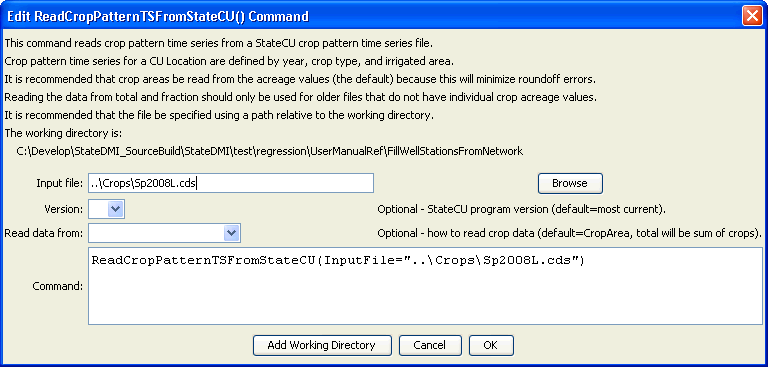
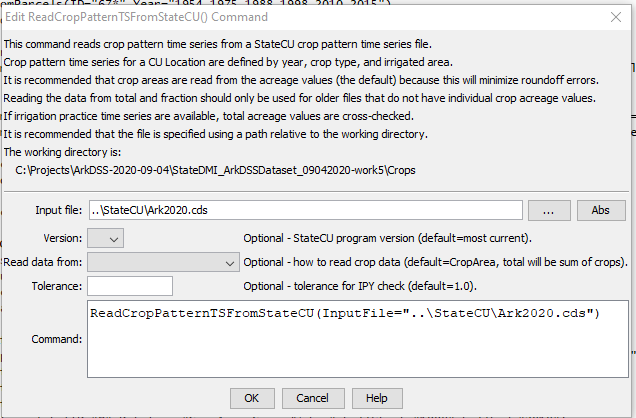
Update the documentation for 5.0.11 release, issue #43

diff --git a/mkdocs-project/docs/command-ref/WriteParcelsToFile/WriteParcelsToFile.md b/mkdocs-project/docs/command-ref/WriteParcelsToFile/WriteParcelsToFile.md
@@ -98,18 +98,21 @@ The data should closely match the original irrigated lands assessment spatial da
 ### Model Parcel Supply Format ###
 
 The following is an example of the `ModelParcelSupply` report format, which is organized from model perspective.
-The CDS information is only complete after running the
-[`ReadCropPatternTSFromParcels`](../ReadCropPatternTSFromParcels/ReadCropPatternTSFromParcels.md) command.
+The CDS and IPY file information is only complete after running the
+[`ReadCropPatternTSFromParcels`](../ReadCropPatternTSFromParcels/ReadCropPatternTSFromParcels.md)
+or
+[`ReadIrrigationPracticeTSFromParcels`](../ReadIrrigationPracticeTSFromParcels/ReadIrrigationPracticeTSFromParcels.md)
+command.
 
 ```
 #HeaderRevision 0
 #
 # File generated by...
-# program:      StateDMI 5.00.07.dev (2021-01-31)
+# program:      StateDMI 5.0.11.dev (2021-04-19)
 # user:         sam
-# date:         Mon Feb 01 01:04:36 America/Denver 2021
+# date:         Tue Jun 01 07:18:36 America/Denver 2021
 # host:         RoaringFork
-# directory:    C:\Projects\ArkDSS-2020-09-04\StateDMI_ArkDSSDataset_09042020-work3\Crops
+# directory:    C:\Projects\ArkDSS-2020-09-04\StateDMI_ArkDSSDataset_09042020-work5\Crops
 # command line: StateDMI
 #  -home test\operational\CDSS
 #------------------------------------------------
@@ -147,39 +150,54 @@ The CDS information is only complete after running the
 #>  Units        :  Area units
 #>  IrrigMeth    :  Irrigation method
 #>
-#>  Data Source/Use - whether or not the row of data is included in the CDS file
+#>  Data Source/Use - whether or not the row of data is included in the CDS and IPY files
 #>  --------------------------------------------------------------------------------------------------
 #>  Include in CDS :  Indicates whether the parcel is included in CDS file acreage for the LocId.
-#>                    This will only be set after running 'ReadCropPatternTSFromParcels' command.
-#>                    CDS:YES = include parcel area in CDS file based on irrigated acreage parcel assignment
+#>                    This is set after running 'ReadCropPatternTSFromParcels' and
+#>                    'ReadIrrigationPracticeTSFromParcels' commands.
+#>                    CDS:YES = include parcel area in CDS and IPY files based on irrigated acreage parcel assignment
 #>                    - YES if a parcel with surface water supply - area for parcel is always included
 #>                    - YES if a parcel with only groundwater supply and model node is a WEL
 #>                    - a parcel can have CDS:YES for surface water supplies or groundwater supplies, but not both
-#>                    CDS:NO = do not include parcel area in CDS file based on irrigated acreage parcel assignment
+#>                    - IMPORTANT: a parcel/supply may show CDS:YES for surface water supply under GW-only model node
+#>                      but this is only shown in verbose report mode - the supply is only included in the D&W node.
+#>                    CDS:NO = do not include parcel area in CDS or IPY files based on irrigated acreage parcel assignment
 #>                    - NO if GW supply but parcel also has surface water supply
 #>                      - if GW only suppply WEL node, a D&W model node will include the area
-#>                    CDS:ERR = error determining whether to include parcel area in CDS FILE (input error)
-#>                    CDS:UNK = unknown whether to include parcel area in CDS FILE (should not happen)
+#>                    CDS:NA = well supply that is NOT included in the dataset
+#>                    - for example for WEL (well only) model node, a supply ID is not in the collection list.
+#>                    - included in count that is used to compute area fraction, but not included in CDS area.
+#>                    - not included in any IPY acreage.
+#>                    CDS:ERR = error determining whether to include parcel area in CDS and IPY files (input error)
+#>                    CDS:UNK = unknown whether to include parcel area in CDS and IPY files (should not happen)
 #>                    - will have this value until crop pattern time series are processed by
-#>                      ReadCropPatternTSFromParcels or SetCropPatternTSFromParcels commands for location
+#>                      ReadCropPatternTSFromParcels/SetCropPatternTSFromParcels (CDS file)
+#>                      ReadIrrigationPracitceTSFromParcels/SetIrrigationPracticeTSFromParcels (IPY file)
+#>                      commands for location
+#>                    - a year may have this value if Read and Set commands do not overlap a year with irrigated lands
 #>  DataSrc        :  Data source for the supply data
 #>                    - typically from HydroBase but may enable user-supplied data
 #>                    - may in the future be read directly from GIS or other files
 #>                    HB-PUTS = HydroBase ParcelUseTS/Structure from vw_CDSS_ParcelUseTSStructureToParcel (diversions)
 #>                    HB-WTP = HydroBase Well/Parcel from vw_CDSS_WellsWellToParcel (wells)
-#>                    SET = data are provided with SetParcelSurfaceWaterSupply() or SetParcelGroundWaterSupply() commands
 #>  CDS LocId      :  The StateCU location (or StateMod) ID where the parcel area is counted for CDS file. 
 #>                    - DIV or D&W identifier if parcel has surface water supply. 
 #>                    - WEL identifier if parcel has groundwater supply only. 
 #>                    - ??? if the parcel has not been associated with a model location via ReadCropPatternTSFromParcels, 
 #>                      such as when SetCropPatternTS*() commands are used to assign data at the end of processing.
+#>                      When processing IPY, the ReadIrrigationPracticeTSFromParcels and SetIrrigationPracticeTS*() commands are used.
 #>  CDS LocId Type :  Type node type for CDS LocId, to confirm data processing. 
 #>                    - should match the model node location type
-#>                    - ??? if the parcel has not been associated with a model location via ReadCropPatternTSFromParcels, 
+#>                    - ??? if the parcel has not been associated with a model location via ReadCropPatternTSFromParcels(), 
 #>                      such as when SetCropPatternTS*() commands are used to assign data at the end of processing.
-#>  LocId has Set  :  Whether LocId has a SetCropPatternTS*() command - will override any parcel data in this file in output. 
-#>                 :  - will override any parcel data in this file in output. 
-#>                 :  - if CDS:UNK, LocId CDS data may be set by one or more StateDMI set commands. 
+#>                      When processing IPY, the ReadIrrigationPracticeTSFromParcels and SetIrrigationPracticeTS*() commands are used.
+#>  LocId has Set/Fill  :  Whether LocId has a SetCropPatternTS*() or FillCropPatternTS*() command
+#>                         - SET:CDS if SetCropPatternTS*() command was used to set CDS acreage. 
+#>                         - SET:IPY if SetIrrigationPracticeTS*() command was used to set IPY acreage. 
+#>                         - FILL:CDS if FillCropPatternTS*() command was used to fill CDS acreage. 
+#>                         - FILL:IPY if FillIrrigationPracticeTS*() command was used to fill IPY acreage. 
+#>                         - set commands will override any parcel data in this file in output. 
+#>                         - if CDS:UNK, LocId CDS data may be set by one or more StateDMI set or fill commands. 
 #>
 #>  SW Collection Data - surface water aggregate/system data
 #>  --------------------------------------------------------------------------------------------------
@@ -224,27 +242,28 @@ The CDS information is only complete after running the
 #>  --------------------------------------------------------------------------------------------------
 #>  #Wells       :  Number of wells that are associated with ParcelId.
 #>  Irrig Frac   :  1/#Wells = fraction of ParcelArea (from above) that is irrigated by the well (0.0 to 1.0).
-#>  D&W Frac     :  Same as D&W Irrig Frac, applied when well supply is supplemental to ditch.
+#>  D&W Frac     :  Sum of 'SW Supply Data' Irrig Frac for supplies where CDS LocId matches the model ID,
+#>               :  applied when well supply is supplemental to ditch.
 #>  Irrig Area   :  ParcelArea * Irrig Frac (* D&W Frac), zero if parcel has surface water supply for D&W node.
 #>
 #>-------- Model Id ---------|------------------------------- Parcel Data -----------------------------||----------- Data Source/Use ------------- ||            Collections use WDID Parts              |          WEL Collection Part ID is the same as GW Supply ID       |
-#>                           |                                                                         || Include                    CDS     LocId || SW     |-------------- SW Supply Data -------------|----------- GW Collection Data ---------|----- GW Supply Data -----|
-#>           Loc  Collection |       Parcel                                    Parcel          Irrig   || in               CDS       LocId   has   || Collect|#     Ditch  Irrig Irrig   Irrig           |   GWPart    GWPart    Well     Well    |#    Irrig D&W     Irrig  |
-#>  LocId    Type Type       |Year   ID        Div Dist        Crop            Area     Units  Method  || CDS?    DataSrc  LocId     Type    Set   || WDID   |Dit   WDID   Frac  FracHB  Area     HBError|    Type     IdType    WDID     Receipt |Well Frac  Frac    Area   |
+#>                           |                                                                         || Include                    CDS    LocId  || SW     |-------------- SW Supply Data -------------|----------- GW Collection Data ---------|----- GW Supply Data -----|
+#>           Loc  Collection |       Parcel                                    Parcel          Irrig   || in               CDS       LocId  has    || Collect|#     Ditch  Irrig Irrig   Irrig           |   GWPart    GWPart    Well     Well    |#    Irrig D&W     Irrig  |
+#>  LocId    Type Type       |Year   ID        Div Dist        Crop            Area     Units  Method  || CDS?    DataSrc  LocId     Type   Fill/Set| WDID   |Dit   WDID   Frac  FracHB  Area     HBError|    Type     IdType    WDID     Receipt |Well Frac  Frac    Area   |
 #>b--------exb--exb---------exb--exb--------exb--exb--exb------------------exb--------exb--exb--------exb------exb------exb----------exb--exb------exb------exb-exb------exb---exb---exb--------exb-----exb----------exb-----exb------exb--------exb--exb---exb---exb-------ex
 #>EndHeader
 #>
-1000504      DIV  Single      1975 21012133      2   10 GRASS_PASTURE            39.303 acre FLOOD                                                  
+1000504      DIV  Single      1975 21012133      2   10 GRASS_PASTURE            39.303 acre FLOOD                                          FILL:CDS
                                                                                                         CDS:YES  HB-PUTS  1000504      DIV                      1 1000504  1.000 1.000     39.303        
-1000504      DIV  Single      1998 21012719      2   10 GRASS_PASTURE            26.166 acre FLOOD                                                  
+1000504      DIV  Single      1998 21012719      2   10 GRASS_PASTURE            26.166 acre FLOOD                                          FILL:CDS
                                                                                                         CDS:YES  HB-PUTS  1000504      DIV                      1 1000504  1.000 1.000     26.166        
-1000504      DIV  Single      2015 21023167      2   10 GRASS_PASTURE            22.138 acre FLOOD                                                  
+1000504      DIV  Single      2015 21023167      2   10 GRASS_PASTURE            22.138 acre FLOOD                                          FILL:CDS
                                                                                                         CDS:YES  HB-PUTS  1000504      DIV                      1 1000504  1.000 1.000     22.138        
-1000567      D&W  Single      1954 21010941      2   10 GRASS_PASTURE            55.117 acre FLOOD                                                  
+1000567      D&W  Single      1954 21010941      2   10 GRASS_PASTURE            55.117 acre FLOOD                                          FILL:CDS
                                                                                                         CDS:YES  HB-PUTS  1000567      D&W                      1 1000567  1.000 1.000     55.117        
                                                                                                         CDS:NO   HB-WTP                                                                                   WellInDitch          1005638  9080344       2 0.500 1.000    27.558
                                                                                                         CDS:NO   HB-WTP                                                                                   WellInDitch          1005639  9080345       2 0.500 1.000    27.558
-1000567      D&W  Single      1954 21010942      2   10 GRASS_PASTURE            20.477 acre FLOOD                                                  
+1000567      D&W  Single      1954 21010942      2   10 GRASS_PASTURE            20.477 acre FLOOD                                          FILL:CDS
                                                                                                         CDS:YES  HB-PUTS  1000567      D&W                      1 1000567  1.000 1.000     20.477        
                                                                                                         CDS:NO   HB-WTP                                                                                   WellInDitch          1005638  9080344       2 0.500 1.000    10.239
                                                                                                         CDS:NO   HB-WTP                                                                                   WellInDitch          1005639  9080345       2 0.500 1.000    10.239

diff --git a/mkdocs-project/docs/command-ref/ReadIrrigationPracticeTSFromParcels/ReadIrrigationPracticeTSFromParcels.md b/mkdocs-project/docs/command-ref/ReadIrrigationPracticeTSFromParcels/ReadIrrigationPracticeTSFromParcels.md
@@ -22,6 +22,10 @@ Values for other years must be estimated using other commands
 [`FillIrrigationPracticeTSRepeat`](../FillIrrigationPracticeTSRepeat/FillIrrigationPracticeTSRepeat.md) commands).
 This command should be executed before other commands that estimate or set irrigation practice acreage time series.
 
+The [`SetIrrigationPracticeTSTotalAcreageToCropPatternTSTotalAcreage`](../SetIrrigationPracticeTSTotalAcreageToCropPatternTSTotalAcreage/SetIrrigationPracticeTSTotalAcreageToCropPatternTSTotalAcreage.md)
+command can be used to set irrigation practice time series total area for the full period
+to ensure that fill commands have a total area for calculations for the full period.
+
 The following figure illustrates possible water supply for parcels.
 
 **<p style="text-align: center;">
@@ -133,10 +137,14 @@ Command Parameters
 
 See the [automated tests](https://github.com/OpenCDSS/cdss-app-statedmi-test/tree/master/test/regression/commands/ReadIrrigationPracticeTSFromParcels).
 
-The following command file illustrates how to process the irrigation practice time series file where groundwater supply is used:
+The following command file illustrates how to process the irrigation practice time series file where groundwater supply is used,
+in this case for Arkansas basin:
 
 ```
-StartLog(LogFile="Ark2020_IPY.STATEDMI.log")
+StartLog(LogFile="Ark2020_IPY_Rev.STATEDMI.log")
+# StateDMI command file to develop an IPY File for ArkDSS
+# Ark2020.ipy
+#@require datastore HydroBase = 20200720
 #
 # Step 1 - Set output period and read CU locations from structure file
 SetOutputPeriod(OutputStart="1950",OutputEnd="2018")
@@ -145,9 +153,11 @@ ReadCULocationsFromStateCU(InputFile="..\StateCU\Ark2020_CROP.str")
 # Step 2 - Read Diversion System, Multi-Systems, and GW aggregates
 SetDiversionSystemFromList(ListFile="2020_08_18_Ark2020_DivSys_Acres.txt",IDCol="1",NameCol="2",PartIDsCol="3",PartsListedHow=InRow,PartIDsColMax="12",IfNotFound=Warn)
 SetDiversionSystemFromList(ListFile="2020_08_18_Ark2020_MultiStr_DDM.txt",IDCol="1",NameCol="2",PartIDsCol="3",PartsListedHow=InRow,PartIDsColMax="7",IfNotFound=Warn)
+SetWellAggregateFromList(ListFile="2020_04_06_Ark2020_GWAgg_StateCU.txt",PartType=Well,IDCol="1",PartIDsCol="2",PartIDTypeColumn="3",PartsListedHow=InColumn,WellReceiptWaterDistrictMap="0457406:1,3648199:65,0429583:2")
 #
 # Step 2.1 - Read parcel data, which is used by the following commands
-ReadParcelsFromHydroBase(ID="*")
+ReadParcelsFromHydroBase(ID="*",ExcludeYears="2013,2014")
+#
 # Check the parcel data for issues
 CheckParcels(ID="*",AreaPrecision=1)
 #
@@ -162,43 +172,40 @@ SetIrrigationPracticeTSFromList(ListFile="Ark2020_IPY_AllSTR_Irrig_Eff.lst",ID="
 SetIrrigationPracticeTSFromList(ListFile="Ark2020_IPY_HIModel_Irrig_Eff.lst",ID="*",YearCol=1,IDCol="2",SprinklerAppEffMaxCol="3")
 SetIrrigationPracticeTSFromList(ListFile="Ark2020_AllSTR_CanalEff.lst",ID="*",IDCol="1",SurfaceDelEffMaxCol="2")
 #
-# Step 6 - Set Irrigation Practice for three HI Model Structures
-# SetIrrigationPracticeTS(ID="1400540I",AcresSWFlood=0,AcresSWSprinkler=0,AcresGWFlood=0,AcresGWSprinkler=0)
-# SetIrrigationPracticeTS(ID="1400541",AcresSWFlood=0,AcresSWSprinkler=0,AcresGWFlood=0,AcresGWSprinkler=0)
-# SetIrrigationPracticeTS(ID="1400542",AcresSWFlood=0,AcresSWSprinkler=0,AcresGWFlood=0,AcresGWSprinkler=0)
-#
-# Step 7 - Set Irrigation Practice for Drip Irrigated Parcels
+# Step 6 - Set Irrigation Practice for Drip Irrigated Parcels
 SetIrrigationPracticeTSFromList(ListFile="Ark2020_DripIrrig_Eff.lst",ID="*",YearCol=1,IDCol="2",SprinklerAppEffMaxCol="3")
 #
 # Step 8 - Read category acreage from HydroBase
-# # Read for every water district besides the HI Model Districts
 ReadIrrigationPracticeTSFromParcels(ID="10*",Year="1954,1975,1988,1998,2010,2015")
 ReadIrrigationPracticeTSFromParcels(ID="11*",Year="1954,1975,1988,1998,2010,2015")
 ReadIrrigationPracticeTSFromParcels(ID="12*",Year="1954,1975,1988,1998,2010,2015")
 ReadIrrigationPracticeTSFromParcels(ID="13*",Year="1954,1975,1988,1998,2010,2015")
+ReadIrrigationPracticeTSFromParcels(ID="14*",Year="1954,1975,1988,1998,2010,2015")
 ReadIrrigationPracticeTSFromParcels(ID="15*",Year="1954,1975,1988,1998,2010,2015")
 ReadIrrigationPracticeTSFromParcels(ID="16*",Year="1954,1975,1988,1998,2010,2015")
+ReadIrrigationPracticeTSFromParcels(ID="17*",Year="1954,1975,1988,1998,2010,2015")
 ReadIrrigationPracticeTSFromParcels(ID="18*",Year="1954,1975,1988,1998,2010,2015")
 ReadIrrigationPracticeTSFromParcels(ID="19*",Year="1954,1975,1988,1998,2010,2015")
 ReadIrrigationPracticeTSFromParcels(ID="66*",Year="1954,1975,1988,1998,2010,2015")
+ReadIrrigationPracticeTSFromParcels(ID="67*",Year="1954,1975,1988,1998,2010,2015")
 ReadIrrigationPracticeTSFromParcels(ID="79*",Year="1954,1975,1988,1998,2010,2015")
 #
-# Read the Irrigation Practice for Non-HI structures in the 14, 17, 67
-# smalers 2020-11-10 New commands use parcels
-ReadIrrigationPracticeTSFromParcels(ID="1400532",Year="1954,1975,1988,1998,2010,2015")
-ReadIrrigationPracticeTSFromParcels(ID="1400535",Year="1954,1975,1988,1998,2010,2015")
-# Similar other commands...
-#
-# Step 9 - Set the Irrigation Practice from List for GW Aggregates
-SetIrrigationPracticeTSFromList(ListFile="Ark2020_HI_GW_Agg_IPY_1954_2015_Acreage_04202020.lst",ID="*",SetStart=1954,SetEnd=2010,YearCol=1,IDCol="2",FloodAppEffMaxCol="5",SprinklerAppEffMaxCol="6",AcresSWFloodCol="3",AcresSWSprinklerCol="4",AcresGWFloodCol="7",AcresGWSprinklerCol="8",AcresTotalCol="9")
+# Step 9 - Read acreage for GW Aggregates with problem wells/receipts
+SetIrrigationPracticeTSFromList(ListFile="Ark2020_IPY_GWAgg_Acreage_Set.txt",ID="*",SetStart=1950,SetEnd=2018,YearCol=1,IDCol="2",AcresSWFloodCol="3",AcresSWSprinklerCol="4",AcresGWFloodCol="7",AcresGWSprinklerCol="8",AcresTotalCol="9",RecalculateTotal=True)
 #
 # Step 11 - Set Irrigation Practice and Acreage for HI Model Area for 1950-2018 and set PRWCD acreage for 1999-2009, 2011-2012
-SetIrrigationPracticeTSFromList(ListFile="Ark2020_IPY_HIModel_08312020.lst",ID="*",SetStart=1950,SetEnd=2018,YearCol=1,IDCol="2",AcresSWFloodCol="3",AcresSWSprinklerCol="4",AcresGWFloodCol="5",AcresGWSprinklerCol="6",AcresTotalCol="7")
-SetIrrigationPracticeTSFromList(ListFile="Ark2020_IPY_PRWCD_Acreage_08312020.lst",ID="*",SetStart=2006,SetEnd=2012,YearCol=1,IDCol="2",AcresSWFloodCol="3",AcresSWSprinklerCol="4",AcresGWFloodCol="5",AcresGWSprinklerCol="6",AcresTotalCol="7")
+SetIrrigationPracticeTSFromList(ListFile="Ark2020_IPY_HIModel_08312020.lst",ID="*",SetStart=1950,SetEnd=2018,YearCol=1,IDCol="2",AcresSWFloodCol="3",AcresSWSprinklerCol="4",AcresGWFloodCol="5",AcresGWSprinklerCol="6",AcresTotalCol="7",RecalculateTotal=True)
+SetIrrigationPracticeTSFromList(ListFile="Ark2020_IPY_PRWCD_Acreage_08312020.lst",ID="*",SetStart=2006,SetEnd=2012,YearCol=1,IDCol="2",AcresSWFloodCol="3",AcresSWSprinklerCol="4",AcresGWFloodCol="5",AcresGWSprinklerCol="6",AcresTotalCol="7",RecalculateTotal=True)
 #
 # Step 12 - Read total acreage from *.cds file and set total for *.ipy file
-# Read total acreage from *.cds file and set total for *.ipy file
-ReadCropPatternTSFromStateCU(InputFile="..\StateCU\Ark2020.cds")
+# - previously created *.cds file has total area for all years
+# - this allows filling to adjust parts, if necessary, during the following fill steps
+# - checks occur to compare CDS and IPY totals to ensure consistency
+# - the parcel report file for CDS and IPY processing should agree except for SET/FILL notes
+ReadCropPatternTSFromStateCU(InputFile="..\StateCU\Ark2020_SAM_Rev.cds",Tolerance=1.0)
+# The following has been used in the past.
+# An alternate approach would be to fill IPY total acreage read from above commands.
+# Then CDS acreage could be read after all processing as a cross check.
 SetIrrigationPracticeTSTotalAcreageToCropPatternTSTotalAcreage(ID="*")
 #
 # Step 13 - Fill Interpolate Acreage
@@ -235,10 +242,18 @@ FillIrrigationPracticeTSInterpolate(ID="*",DataType="CropArea-SurfaceWaterOnlyFl
 FillIrrigationPracticeTSRepeat(ID="*",DataType="CropArea-SurfaceWaterOnlyFlood",FillStart="2015",FillEnd="2018",FillDirection="Forward")
 #
 # Step 15 - Write final ipy file
-WriteIrrigationPracticeTSToStateCU(OutputFile="..\StateCU\Ark2020.ipy")
+WriteIrrigationPracticeTSToStateCU(OutputFile="..\StateCU\Ark2020_SAM_Rev.ipy")
+#
+# Write parcels after processing IPY, for verification.
+# - will indicate whether set commands are used
+WriteParcelsToFile(OutputFile="Ark2020_IPY_Rev.StateDMI.model-parcel-supply-after-ipy.txt",Verbose=True)
 ```
 
 ## Troubleshooting ##
+
+* Warnings are generated to ensure that irrigated area data are consistent.
+The warnings should not be ignored.
+If warnings exist, confirm that input data are correct.
 
 ## See Also ##
 
@@ -249,4 +264,5 @@ WriteIrrigationPracticeTSToStateCU(OutputFile="..\StateCU\Ark2020.ipy")
 * [`ReadIrrigationPracticeTSFromList`](../ReadIrrigationPracticeTSFromList/ReadIrrigationPracticeTSFromList.md) command
 * [`ReadIrrigationPracticeTSFromStateCU`](../ReadIrrigationPracticeTSFromStateCU/ReadIrrigationPracticeTSFromStateCU.md) command
 * [`ReadParcelsFromHydroBase`](../ReadParcelsFromHydroBase/ReadParcelsFromHydroBase.md) command
+* [`SetIrrigationPracticeTSTotalAcreageToCropPatternTSTotalAcreage`](../SetIrrigationPracticeTSTotalAcreageToCropPatternTSTotalAcreage/SetIrrigationPracticeTSTotalAcreageToCropPatternTSTotalAcreage.md) command
 * [`WriteIrrigationPracticeTSToStateCU`](../WriteIrrigationPracticeTSToStateCU/WriteIrrigationPracticeTSToStateCU.md) command

diff --git a/mkdocs-project/docs/appendix-release-notes/release-notes-05.md b/mkdocs-project/docs/appendix-release-notes/release-notes-05.md
@@ -1,5 +1,6 @@
 # StateDMI / Release Notes / Version 5 #
 
+* [Changes in Version 5.0.11](#changes-in-version-5011)
 * [Changes in Version 5.0.10](#changes-in-version-5010)
 * [Changes in Version 5.0.9](#changes-in-version-509)
 * [Changes in Version 5.0.8](#changes-in-version-508)
@@ -11,6 +12,46 @@
 * [Release notes for all versions](release-notes.md)
 
 ----------
+
+## Changes in Version 5.0.11 ##
+
+* ![bug](bug.png) [5.0.11] Update the
+[`ReadIrrigationPracticeTSFromParcels`](../command-ref/ReadIrrigationPracticeTSFromParcels/ReadIrrigationPracticeTSFromParcels.md)
+command:
+	+ Use the same logic as
+	[`ReadCropPatternTSFromParcels`](../command-ref/ReadCropPatternTSFromParcels/ReadCropPatternTSFromParcels.md)
+	command for setting total area, including updating the parcel data to indicate model node, etc.
+	+ Logic for processing ground and surface water area has been optimized,
+	with additional checks to confirm data integrity.
+	+ Use the [`WriteParcelsToFile`](../command-ref/WriteParcelsToFile/WriteParcelsToFile.md) command
+	to print parcel data for troubleshooting.
+* ![change](change.png) [5.0.11] Update the
+[`ReadCropPatternTSFromStateCU`](../command-ref/ReadCropPatternTSFromStateCU/ReadCropPatternTSFromStateCU.md) command
+to have `Tolerance` parameter to compare total area with irrigation practice time series.
+* ![change](change.png) [5.0.11] Do not allow
+[`ReadIrrigationPracticeTSFromParcels`](../command-ref/ReadIrrigationPracticeTSFromParcels/ReadIrrigationPracticeTSFromParcels.md) and
+[`ReadCropPatternTSFromParcels`](../command-ref/ReadCropPatternTSFromParcels/ReadCropPatternTSFromParcels.md) to be used in the
+same command file because they manage data that would interfere with each other
+* ![change](change.png) [5.0.11] Update the following commands to indicate when parcel data were set/filled,
+for use with the [`WriteParcelsToFile`](../command-ref/WriteParcelsToFile/WriteParcelsToFile.md) command:
+	+ [`FillIrrigationPracticeTSAcreageUsingWellRights`](../command-ref/FillIrrigationPracticeTSAcreageUsingWellRights/FillIrrigationPracticeTSAcreageUsingWellRights.md)
+	+ [`FillIrrigationPracticeTSInterpolate`](../command-ref/FillIrrigationPracticeTSInterpolate/FillIrrigationPracticeTSInterpolate.md)
+	+ [`FillIrrigationPracticeTSRepeat`](../command-ref/FillIrrigationPracticeTSRepeat/FillIrrigationPracticeTSRepeat.md)
+	+ [`SetIrrigationPracticeTSFromList`](../command-ref/SetIrrigationPracticeTSFromList/SetIrrigationPracticeTSFromList.md)
+	(also add `RecalculateTotal` parameter to force recalculation of total area)
+	+ [`SetIrrigationPracticeTS`](../command-ref/SetIrrigationPracticeTS/SetIrrigationPracticeTS.md)
+	+ [`SetIrrigationPracticeTSSprinklerAcreageFromList`](../command-ref/SetIrrigationPracticeTSSprinklerAcreageFromList/SetIrrigationPracticeTSSprinklerAcreageFromList.md)
+* ![change](change.png) [5.0.11] Update the
+[`SetIrrigationPracticeTS`](../command-ref/ReadCropPatternTSFromStateCU/ReadCropPatternTSFromStateCU.md) command
+* ![change](change.png) [5.0.11] Update the
+[`SetIrrigationPracticeTSTotalAcreageToCropPatternTSTotalAcreage`](../command-ref/SetIrrigationPracticeTSTotalAcreageToCropPatternTSTotalAcreage/SetIrrigationPracticeTSTotalAcreageToCropPatternTSTotalAcreage.md) command
+to have `CheckOnly` parameter to allow using the command to check crop pattern time series and irrigation practice time series total area.
+* ![change](change.png) [5.0.11] Update the
+[`WriteIrrigationPracticeTSToStateCU`](../command-ref/WriteIrrigationPracticeTSToStateCU/WriteIrrigationPracticeTSToStateCU.md) command
+to have `RecalculateTotal` parameter, to recalculate the total acres from parts
+* ![change](change.png) [5.0.11] Update the
+[`WriteParcelsToFile`](../command-ref/WriteParcelsToFile/WriteParcelsToFile.md) command
+to indicate when set and fill commands have been run for crop pattern time series and irrigation practice time series
 
 ## Changes in Version 5.0.10 ##
 

diff --git a/mkdocs-project/docs/command-ref/ReadCropPatternTSFromStateCU/ReadCropPatternTSFromStateCU.md b/mkdocs-project/docs/command-ref/ReadCropPatternTSFromStateCU/ReadCropPatternTSFromStateCU.md
@@ -15,10 +15,21 @@ The `ReadCropPatternTSFromStateCU` command (for StateCU)
 reads crop pattern time series data from a StateCU crop pattern
 time series file and defines crop patterns in memory.
 The crop pattern time series can then be manipulated and output with other commands.
-This command can be used to adjust an existing crop pattern file or to set the total
+This command can be used to:
+
+* read an existing crop pattern time series file to manipulate the data
+* read a crop pattern time series file to set the total
 acreage in the irrigation practice time series file (see the
 [`SetIrrigationPracticeTSTotalAcreageToCropPatternTSTotalAcreage`](../SetIrrigationPracticeTSTotalAcreageToCropPatternTSTotalAcreage/SetIrrigationPracticeTSTotalAcreageToCropPatternTSTotalAcreage.md) command).
-**Warning:  when writing the crop pattern time series, the total acreage and the fractions corresponding to each crop (three digits) are written.  The acreage for each crop is also now written but was not included in older versions of files.  When reading the file with this command, the default is to read the individual crop acreages and the total and fractions are computed based on the individual crop acreages.  Because the fraction is only three digits, crop areas computed from the total and fraction may differ from the raw crop acreages.  Consequently, comparing old and new files may result in differences.**
+
+**Warning:  when writing the crop pattern time series,
+the total acreage and the fractions corresponding to each crop (three digits) are written.
+The acreage for each crop is also now written but was not included in older versions of files.
+When reading the file with this command, the default is to read the individual crop acreages
+and the total and fractions are computed based on the individual crop acreages.
+Because the fraction is only three digits, crop areas computed from the total
+and fraction may differ from the raw crop acreages.
+Consequently, comparing old and new files may result in differences.**
 
 ## Command Editor ##
 
@@ -48,6 +59,7 @@ Command Parameters
 | `InputFile` | The name of the input file to read. | None – must be specified. |
 | `Version` | A StateCU version, to allow backward compatibility with files from an older software version.  Refer to StateCU documentation for a description of older file formats. | Use the file format for the most current StateCU version. |
 | `ReadDataFrom` | Indicate how to read crop values, one of:<ul><li>`CropArea` – read the detailed crop acreage values from the file (may not be available in very old files)</li><li>`TotalAreaAndCropFraction` – read the total area and crop fractions and compute the crop area from this information.  Because fractions are only 3 digits, the crop areas will only be accurate to three digits (and may therefore not agree with HydroBase or other input data).</li></ul> | `CropArea` |
+| `Tolerance` | The tolerance used when comparing crop pattern time series and irrigation practice time series total area. | `1.0` |
 
 ## Examples ##
 

diff --git a/mkdocs-project/docs/command-ref/SetIrrigationPracticeTSFromList/SetIrrigationPracticeTSFromList.md b/mkdocs-project/docs/command-ref/SetIrrigationPracticeTSFromList/SetIrrigationPracticeTSFromList.md
@@ -50,16 +50,6 @@ with the values being set as the command is processed (omitting the year would r
 `SetIrrigationPracticeTSFromList` Command Editor - Repeat Values (<a href="../SetIrrigationPracticeTSFromList.png">see also the full-size image</a>)
 </p>**
 
-The following dialog is used to edit the command and illustrates the syntax of the command for providing acreage data that are not in HydroBase, for a single year of data.
-
-**<p style="text-align: center;">
-![SetIrrigationPracticeTSFromList2](SetIrrigationPracticeTSFromList2.png)
-</p>**
-
-**<p style="text-align: center;">
-`SetIrrigationPracticeTSFromList` Command Editor - Provide Parcel Data not in HydroBase (<a href="../SetIrrigationPracticeTSFromList2.png">see also the full-size image</a>)
-</p>**
-
 ## Command Syntax ##
 
 The command syntax is as follows:
@@ -87,6 +77,7 @@ Command Parameters
 | `AcresGWFloodCol` | The column number (1+) containing the groundwater flood acres. | If not specified, the previous data values will remain. |
 | `AcresGWSprinklerCol` | The column number (1+) containing the groundwater sprinkler acres. | If not specified, the previous data values will remain. |
 | `AcresTotalCol` | The column number (1+) containing the total acres. | If not specified, the previous data values will remain. |
+| `RecalculateTotal` | Indicate whether the total area values should be recalculated from the parts (`False` or `True`).  This can be used if area parts are set but total is not set. | `False` |
 | `PumpingMaxCol` | The column number (1+) containing the monthly maximum pumping rate. | If not specified, the previous data values will remain. |
 | `GWModeCol` | The column number (1+) containing the groundwater mode value. | If not specified, the previous data values will remain. |
 

diff --git a/mkdocs-project/docs/appendix-release-notes/release-notes.md b/mkdocs-project/docs/appendix-release-notes/release-notes.md
@@ -71,7 +71,7 @@ StateDMI Version History Summary (most current at top)
 
 |**StateDMI Version(s)**&nbsp;&nbsp;&nbsp;&nbsp;&nbsp;&nbsp;&nbsp;&nbsp;&nbsp;&nbsp;&nbsp;&nbsp;&nbsp;&nbsp;&nbsp;&nbsp;&nbsp;&nbsp;&nbsp;&nbsp;|**Summary of Major Changes in Version**|**Release Date**|
 |--|--|--|
-|[5.00.01 - 5.0.10](release-notes-05.md)|Major update including enabling web services, datastores, tables, Excel integration, and new parcel processing commands. | 2021-03-01 |
+|[5.00.01 - 5.0.11](release-notes-05.md)|Major update including enabling web services, datastores, tables, Excel integration, and new parcel processing commands. | 2021-06-03 |
 
 ## Known Limitations ##
 

diff --git a/mkdocs-project/docs/command-ref/ReadCropPatternTSFromParcels/ReadCropPatternTSFromParcels.md b/mkdocs-project/docs/command-ref/ReadCropPatternTSFromParcels/ReadCropPatternTSFromParcels.md
@@ -70,7 +70,7 @@ and has one or more groundwater supplies,
 
 The following examples illustrate how acreage is assigned,
 using excerpts from the parcel report file output by the
-[`WriteParcelsToFile`](../command-ref/WriteParcelsToFile/WriteParcelsToFile.md) command.
+[`WriteParcelsToFile`](../WriteParcelsToFile/WriteParcelsToFile.md) command.
 
 The following example illustrates a parcel with commingled supply with one ditch.
 The full parcel area is assigned to the CU Location `1000568`.

diff --git a/mkdocs-project/docs/index.md b/mkdocs-project/docs/index.md
@@ -13,7 +13,7 @@ This documentation is generally referred to as the **"User Documentation"** in c
 * [About the Open Water Foundation](#about-the-open-water-foundation)
 * [License](#license)
 * [Source Repository on GitHub](#source-repository-on-github)
-* [Release Notes](#release-notes) - **this documentation is for StateDMI version 5.0.10**
+* [Release Notes](#release-notes) - **this documentation is for StateDMI version 5.0.11**
 
 ----------------
 
